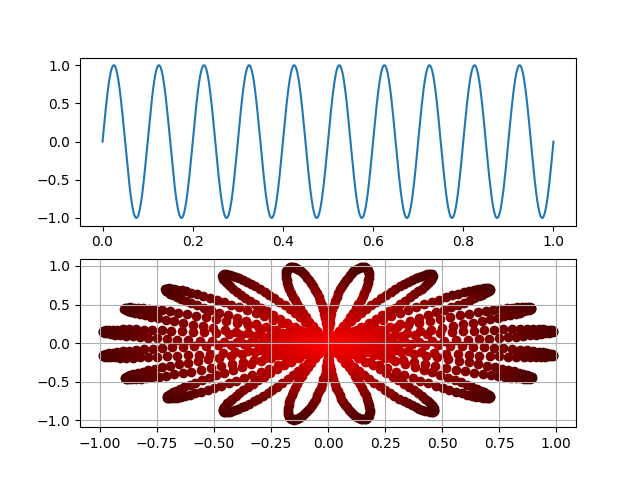
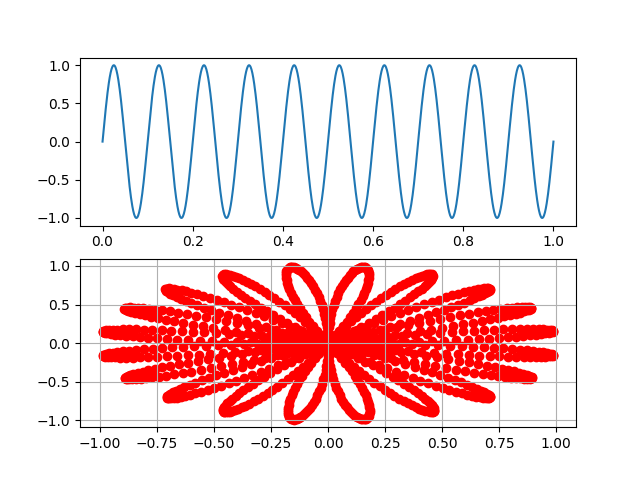
Fixed HSV

Changed region(s): [[0.1562, 0.5312, 0.875, 0.9062]]

diff --git a/Lab03/p02.py b/Lab03/p02.py
@@ -11,7 +11,7 @@ def colorize_graphic(y):
 
         h = 0 # Red
         s = 255 # Full saturation
-        v = 255 - int(distance * 180 / N) # Luminosity
+        v = 255 - int(distance / N) # Luminosity
         hsv = np.uint8([[[h, s, v]]])
         rgb = cv2.cvtColor(hsv, cv2.COLOR_HSV2RGB)
         hex_red = hex(rgb[0][0][0])[2:] if len(hex(rgb[0][0][0])[2:]) == 2 else f"0{hex(rgb[0][0][0])[2:]}"
